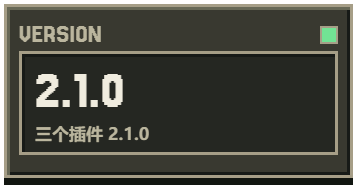
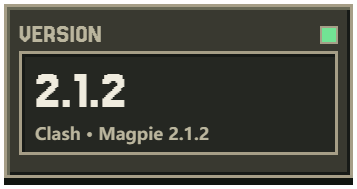
fix(readme): 版本卡改为从 catalog 读版本，重渲染 2.1.2 并补 key-start 图

Changed region(s): [[0.0924, 0.6614, 0.5854, 0.7672], [0.2773, 0.3968, 0.3697, 0.582]]

diff --git a/assets/readme/header.html b/assets/readme/header.html
@@ -85,6 +85,23 @@ const params=new URLSearchParams(location.search);
 document.documentElement.dataset.theme=params.get('theme')==='dark'?'dark':'light';
 document.documentElement.lang='zh-CN';
 for(const el of document.querySelectorAll('[data-zh]'))el.textContent=el.dataset.zh;
+// 版本号由渲染器从 catalog/stable.json 传入（?version=），不在这里写死：
+// 之前硬编码 2.1.0，发 2.1.2 时文档改了、图片还挂在旧版本上。
+{
+  const v=params.get('version');
+  if(v){
+    const card=document.querySelector('#stat-version');
+    if(card){
+      const number=card.querySelector('.number');if(number)number.textContent=v;
+      const label=card.querySelector('.metric-label');
+      if(label){
+        label.dataset.zh=`Clash · Magpie ${v}`;
+        label.dataset.en=`CLASH · MAGPIE ${v}`;
+        label.textContent=document.documentElement.lang==='en'?label.dataset.en:label.dataset.zh;
+      }
+    }
+  }
+}
 </script>
 </body>
 </html>
